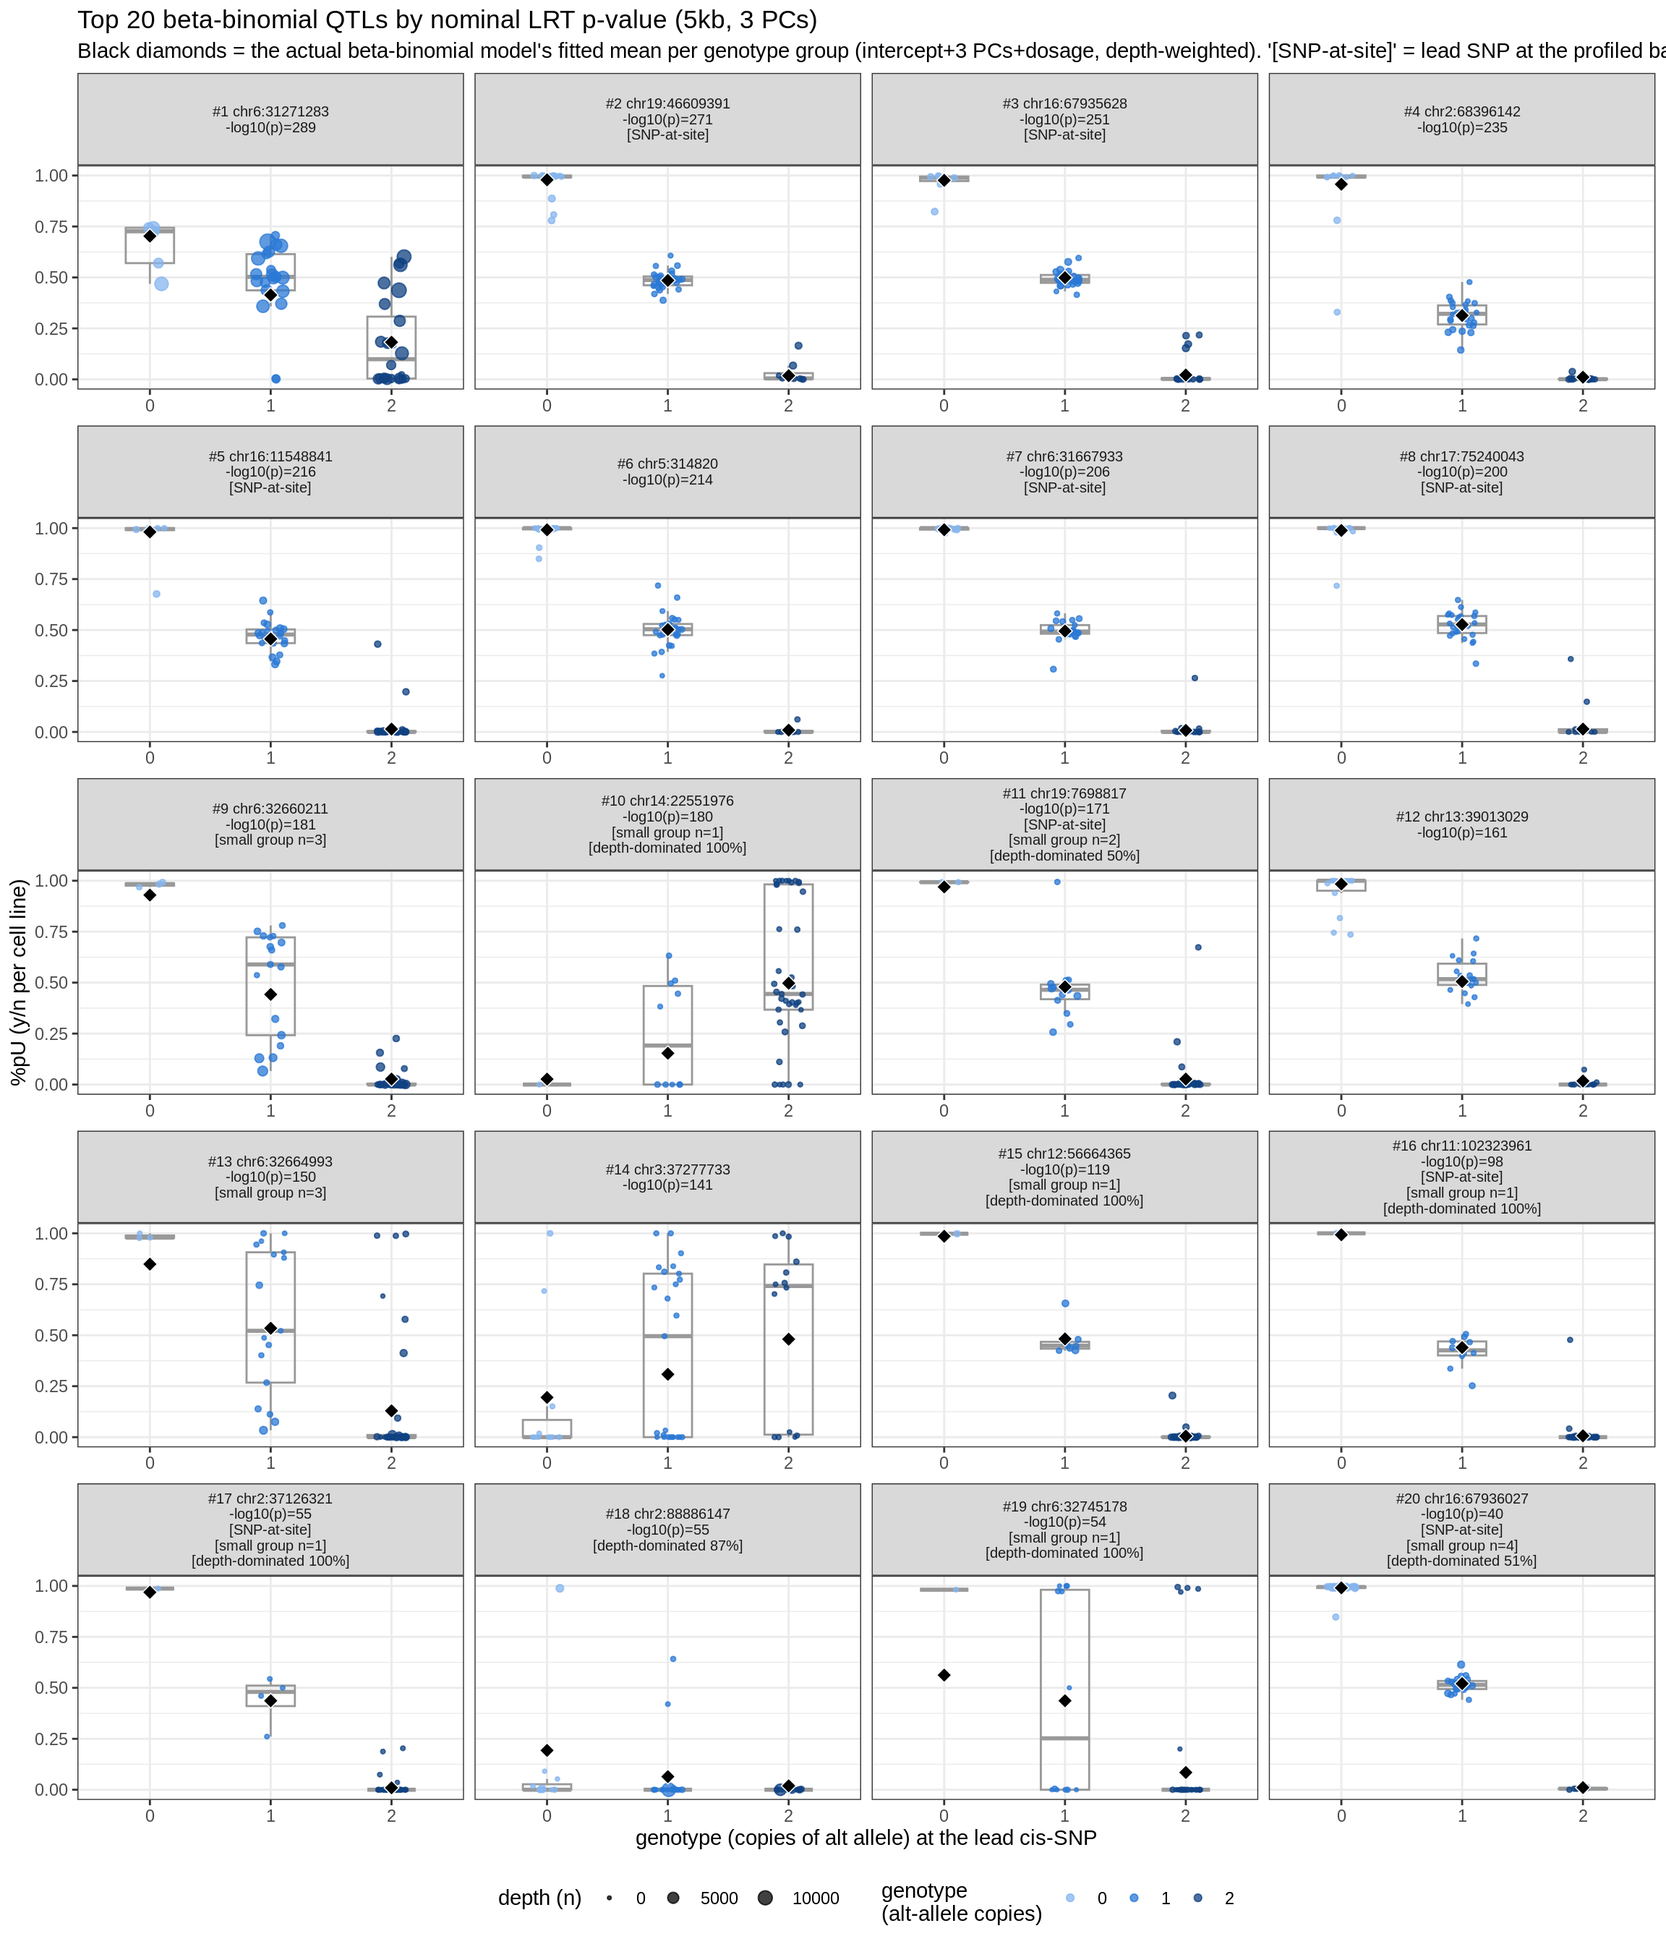
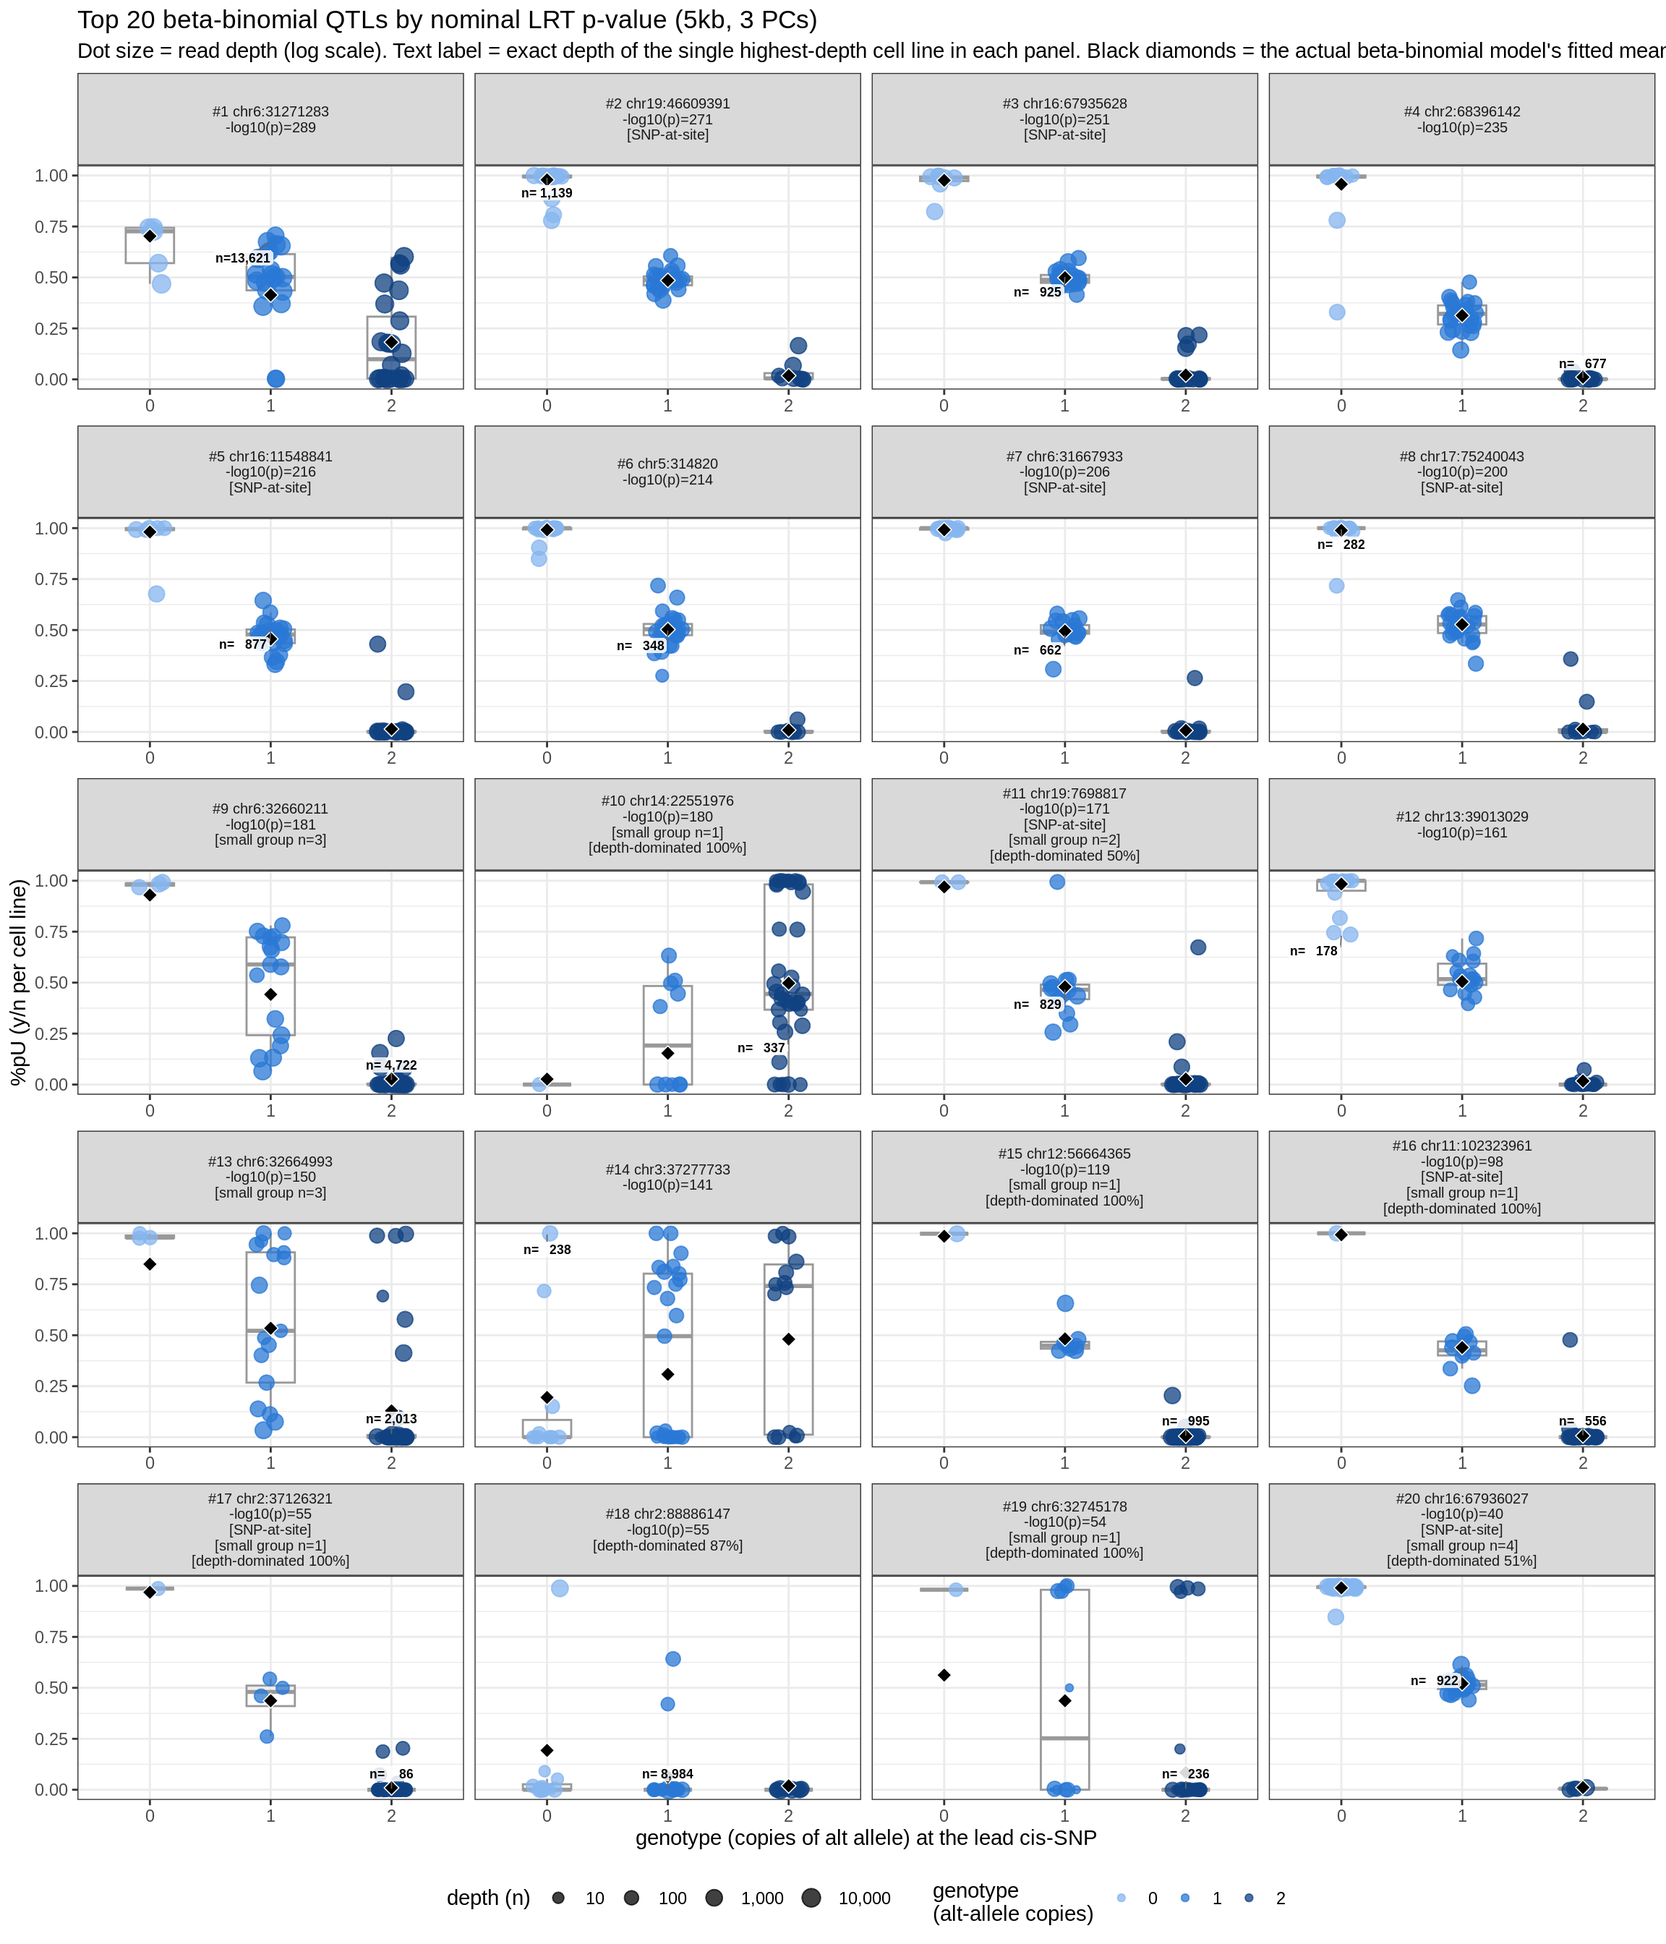
update

diff --git a/docs/qtl_mapping_betabinomial_diagnostic.html b/docs/qtl_mapping_betabinomial_diagnostic.html
@@ -11,7 +11,7 @@
 
 <meta name="author" content="XSun" />
 
-<meta name="date" content="2026-08-02" />
+<meta name="date" content="2026-08-08" />
 
 <title>QTL mapping: beta-binomial top-hit diagnostic</title>
 
@@ -374,7 +374,7 @@ div.tocify {
 <h1 class="title toc-ignore">QTL mapping: beta-binomial top-hit
 diagnostic</h1>
 <h4 class="author">XSun</h4>
-<h4 class="date">2026-08-02</h4>
+<h4 class="date">2026-08-08</h4>
 
 </div>
 
@@ -403,7 +403,7 @@ aria-hidden="true"></span> </a>
 <div class="tab-content">
 <div id="summary" class="tab-pane fade in active">
 <p>
-<strong>Last updated:</strong> 2026-08-02
+<strong>Last updated:</strong> 2026-08-08
 </p>
 <p>
 <strong>Checks:</strong> <span
@@ -537,15 +537,15 @@ project makes it easier to run your code on other machines.</p>
 <div class="panel panel-default">
 <div class="panel-heading">
 <p class="panel-title">
-<a data-toggle="collapse" data-parent="#workflowr-checks" href="#strongRepositoryversionstrongahrefhttpsgithubcomxsun1229pumseqtreec82adb96d5c4e68ce94ec16faf7acc2dab4f2b16targetblankc82adb9a">
+<a data-toggle="collapse" data-parent="#workflowr-checks" href="#strongRepositoryversionstrongahrefhttpsgithubcomxsun1229pumseqtreebb49ca5dbc8d598b2eb8dac704c7f67136c4338ftargetblankbb49ca5a">
 <span class="glyphicon glyphicon-ok text-success"
 aria-hidden="true"></span> <strong>Repository version:</strong>
-<a href="https://github.com/xsun1229/pumseq/tree/c82adb96d5c4e68ce94ec16faf7acc2dab4f2b16" target="_blank">c82adb9</a>
+<a href="https://github.com/xsun1229/pumseq/tree/bb49ca5dbc8d598b2eb8dac704c7f67136c4338f" target="_blank">bb49ca5</a>
 </a>
 </p>
 </div>
 <div
[2 lines of base64/hex data omitted]
 class="panel-collapse collapse">
 <div class="panel-body">
 <p>
@@ -555,7 +555,7 @@ reproducibility.
 </p>
 <p>
 The results in this page were generated with repository version
-<a href="https://github.com/xsun1229/pumseq/tree/c82adb96d5c4e68ce94ec16faf7acc2dab4f2b16" target="_blank">c82adb9</a>.
+<a href="https://github.com/xsun1229/pumseq/tree/bb49ca5dbc8d598b2eb8dac704c7f67136c4338f" target="_blank">bb49ca5</a>.
 See the <em>Past versions</em> tab to see a history of the changes made
 to the R Markdown and HTML files.
 </p>
@@ -620,6 +620,40 @@ Message
 </tr>
 </thead>
 <tbody>
+<tr>
+<td>
+Rmd
+</td>
+<td>
+<a href="https://github.com/xsun1229/pumseq/blob/bb49ca5dbc8d598b2eb8dac704c7f67136c4338f/analysis/qtl_mapping_betabinomial_diagnostic.Rmd" target="_blank">bb49ca5</a>
+</td>
+<td>
+XSun
+</td>
+<td>
+2026-08-02
+</td>
+<td>
+update
+</td>
+</tr>
+<tr>
+<td>
+html
+</td>
+<td>
+<a href="https://rawcdn.githack.com/xsun1229/pumseq/bb49ca5dbc8d598b2eb8dac704c7f67136c4338f/docs/qtl_mapping_betabinomial_diagnostic.html" target="_blank">bb49ca5</a>
+</td>
+<td>
+XSun
+</td>
+<td>
+2026-08-02
+</td>
+<td>
+update
+</td>
+</tr>
 <tr>
 <td>
 Rmd
@@ -933,7 +967,7 @@ update
 </div>
 </div>
 </div>
-<pre class="r"><code>suppressMessages({ library(data.table); library(ggplot2) })
+<pre class="r"><code>suppressMessages({ library(data.table); library(ggplot2); library(ggrepel) })
 
 knitr::opts_chunk$set(
   echo = TRUE, warning = FALSE, message = FALSE,
@@ -1128,18 +1162,35 @@ dw_means &lt;- rows[!is.na(mu_fit), .(dw_mean = sum(mu_fit * n) / sum(n)), by = 
 
 blue3 &lt;- c(`0` = &quot;#86b6ef&quot;, `1` = &quot;#2a78d6&quot;, `2` = &quot;#104281&quot;)
 
+# depth spans ~4 orders of magnitude (1 to 10,000+) -- a LINEAR size scale
+# compresses almost all of that range into barely-distinguishable dot sizes
+# (per advisor feedback: the size legend only showed 0/5000/10000 and wasn&#39;t
+# readable). Map size to log10(depth) instead, with legend breaks labeled in
+# real read counts; additionally, directly label the single highest-depth
+# cell line in each panel with its exact n -- removes any dependence on
+# perceiving size at all for the point that matters most.
+rows[, log_n := log10(pmax(n, 1))]
+top_depth &lt;- rows[, .SD[which.max(n)], by = site_lab]
+size_breaks &lt;- c(10, 100, 1000, 10000)
+
 ggplot(rows, aes(x = g, y = pi, color = g)) +
   geom_boxplot(aes(group = g), outlier.shape = NA, width = 0.4, color = &quot;grey60&quot;, fill = NA) +
-  geom_jitter(aes(size = n), width = 0.12, alpha = 0.75) +
+  geom_jitter(aes(size = log_n), width = 0.12, alpha = 0.75) +
   geom_point(data = dw_means, aes(x = g, y = dw_mean), inherit.aes = FALSE,
              shape = 23, fill = &quot;black&quot;, color = &quot;white&quot;, size = 2.6, stroke = 0.4) +
+  ggrepel::geom_label_repel(data = top_depth, aes(label = paste0(&quot;n=&quot;, format(n, big.mark = &quot;,&quot;))),
+                           inherit.aes = TRUE, size = 2.3, color = &quot;black&quot;, fontface = &quot;bold&quot;,
+                           fill = alpha(&quot;white&quot;, 0.85), label.size = NA, label.padding = 0.1,
+                           segment.size = 0.3, segment.color = &quot;grey40&quot;,
+                           min.segment.length = 0, seed = 1, max.overlaps = Inf) +
   scale_color_manual(values = blue3, name = &quot;genotype\n(alt-allele copies)&quot;) +
-  scale_size_continuous(name = &quot;depth (n)&quot;, range = c(0.6, 3.5)) +
+  scale_size_continuous(name = &quot;depth (n)&quot;, range = c(0.6, 4.2),
+                        breaks = log10(size_breaks), labels = scales::comma(size_breaks)) +
   facet_wrap(~ site_lab, scales = &quot;free_x&quot;, ncol = 4) +
   labs(x = &quot;genotype (copies of alt allele) at the lead cis-SNP&quot;, y = &quot;%pU (y/n per cell line)&quot;,
        title = sprintf(&quot;Top %d beta-binomial QTLs by nominal LRT p-value (%dkb, %d PCs)&quot;,
                        N_TOP, WINDOW_KB, NPCS),
-       subtitle = &quot;Black diamonds = the actual beta-binomial model&#39;s fitted mean per genotype group (intercept+3 PCs+dosage, depth-weighted). &#39;[SNP-at-site]&#39; = lead SNP at the profiled base; &#39;[small group]&#39; = smallest genotype class &lt;5 cell lines; &#39;[depth-dominated]&#39; = one cell line &gt;50% of its group&#39;s total depth.&quot;) +
+       subtitle = &quot;Dot size = read depth (log scale). Text label = exact depth of the single highest-depth cell line in each panel. Black diamonds = the actual beta-binomial model&#39;s fitted mean per genotype group. &#39;[SNP-at-site]&#39; = lead SNP at the profiled base; &#39;[small group]&#39; = smallest genotype class &lt;5 cell lines; &#39;[depth-dominated]&#39; = one cell line &gt;50% of its group&#39;s total depth.&quot;) +
   theme_bw(base_size = 11) +
   theme(legend.position = &quot;bottom&quot;, strip.text = element_text(size = 7.5))</code></pre>
 <p><img src="figure/qtl_mapping_betabinomial_diagnostic.Rmd/top20-select-1.png" width="1152" style="display: block; margin: auto;" /></p>
@@ -1165,6 +1216,17 @@ Date
 </tr>
 </thead>
 <tbody>
+<tr>
+<td>
+<a href="https://github.com/xsun1229/pumseq/blob/bb49ca5dbc8d598b2eb8dac704c7f67136c4338f/docs/figure/qtl_mapping_betabinomial_diagnostic.Rmd/top20-select-1.png" target="_blank">bb49ca5</a>
+</td>
+<td>
+XSun
+</td>
+<td>
+2026-08-02
+</td>
+</tr>
 <tr>
 <td>
 <a href="https://github.com/xsun1229/pumseq/blob/c82adb96d5c4e68ce94ec16faf7acc2dab4f2b16/docs/figure/qtl_mapping_betabinomial_diagnostic.Rmd/top20-select-1.png" target="_blank">c82adb9</a>
@@ -1522,18 +1584,27 @@ rows_p1[, site_lab := factor(site_lab, levels = unique(site_lab[order(rank)]))]
 
 dw_means_p1 &lt;- rows_p1[!is.na(mu_fit), .(dw_mean = sum(mu_fit * n) / sum(n)), by = .(site_lab, g)]
 
+rows_p1[, log_n := log10(pmax(n, 1))]
+top_depth_p1 &lt;- rows_p1[, .SD[which.max(n)], by = site_lab]
+
 ggplot(rows_p1, aes(x = g, y = pi, color = g)) +
   geom_boxplot(aes(group = g), outlier.shape = NA, width = 0.4, color = &quot;grey60&quot;, fill = NA) +
-  geom_jitter(aes(size = n), width = 0.12, alpha = 0.75) +
+  geom_jitter(aes(size = log_n), width = 0.12, alpha = 0.75) +
   geom_point(data = dw_means_p1, aes(x = g, y = dw_mean), inherit.aes = FALSE,
              shape = 23, fill = &quot;black&quot;, color = &quot;white&quot;, size = 2.6, stroke = 0.4) +
+  ggrepel::geom_label_repel(data = top_depth_p1, aes(label = paste0(&quot;n=&quot;, format(n, big.mark = &quot;,&quot;))),
+                           inherit.aes = TRUE, size = 2.3, color = &quot;black&quot;, fontface = &quot;bold&quot;,
+                           fill = alpha(&quot;white&quot;, 0.85), label.size = NA, label.padding = 0.1,
+                           segment.size = 0.3, segment.color = &quot;grey40&quot;,
+                           min.segment.length = 0, seed = 1, max.overlaps = Inf) +
   scale_color_manual(values = blue3, name = &quot;genotype\n(alt-allele copies)&quot;) +
-  scale_size_continuous(name = &quot;depth (n)&quot;, range = c(0.6, 3.5)) +
+  scale_size_continuous(name = &quot;depth (n)&quot;, range = c(0.6, 4.2),
+                        breaks = log10(size_breaks), labels = scales::comma(size_breaks)) +
   facet_wrap(~ site_lab, scales = &quot;free_x&quot;, ncol = 4) +
   labs(x = &quot;genotype (fixed) vs. PERMUTED phenotype at the lead cis-SNP&quot;,
        y = &quot;%pU (y/n per cell line, permuted individual order)&quot;,
        title = sprintf(&quot;Top %d sites under permutation-1 (genotype-phenotype pairing randomized)&quot;, N_TOP),
-       subtitle = &quot;Black diamonds = the actual beta-binomial model&#39;s fitted mean per genotype group (intercept+3 PCs+dosage, depth-weighted; covariates permuted with phenotype, genotype fixed). Same seed as the LRT calibration check&#39;s perm1 (set.seed(1001)).&quot;) +
+       subtitle = &quot;Dot size = read depth (log scale); text = exact depth of the highest-depth cell line per panel. Black diamonds = the actual beta-binomial model&#39;s fitted mean per genotype group. Same seed as the LRT calibration check&#39;s perm1 (set.seed(1001)).&quot;) +
   theme_bw(base_size = 11) +
   theme(legend.position = &quot;bottom&quot;, strip.text = element_text(size = 7.5))</code></pre>
 <p><img src="figure/qtl_mapping_betabinomial_diagnostic.Rmd/perm1-plot-1.png" width="1152" style="display: block; margin: auto;" /></p>
@@ -1559,6 +1630,17 @@ Date
 </tr>
 </thead>
 <tbody>
+<tr>
+<td>
+<a href="https://github.com/xsun1229/pumseq/blob/bb49ca5dbc8d598b2eb8dac704c7f67136c4338f/docs/figure/qtl_mapping_betabinomial_diagnostic.Rmd/perm1-plot-1.png" target="_blank">bb49ca5</a>
+</td>
+<td>
+XSun
+</td>
+<td>
+2026-08-02
+</td>
+</tr>
 <tr>
 <td>
 <a href="https://github.com/xsun1229/pumseq/blob/c82adb96d5c4e68ce94ec16faf7acc2dab4f2b16/docs/figure/qtl_mapping_betabinomial_diagnostic.Rmd/perm1-plot-1.png" target="_blank">c82adb9</a>
@@ -1678,21 +1760,67 @@ rows_p2[, site_lab := factor(site_lab, levels = unique(site_lab[order(rank)]))]
 
 dw_means_p2 &lt;- rows_p2[!is.na(mu_fit), .(dw_mean = sum(mu_fit * n) / sum(n)), by = .(site_lab, g)]
 
+rows_p2[, log_n := log10(pmax(n, 1))]
+top_depth_p2 &lt;- rows_p2[, .SD[which.max(n)], by = site_lab]
+
 ggplot(rows_p2, aes(x = g, y = pi, color = g)) +
   geom_boxplot(aes(group = g), outlier.shape = NA, width = 0.4, color = &quot;grey60&quot;, fill = NA) +
-  geom_jitter(aes(size = n), width = 0.12, alpha = 0.75) +
+  geom_jitter(aes(size = log_n), width = 0.12, alpha = 0.75) +
   geom_point(data = dw_means_p2, aes(x = g, y = dw_mean), inherit.aes = FALSE,
              shape = 23, fill = &quot;black&quot;, color = &quot;white&quot;, size = 2.6, stroke = 0.4) +
+  ggrepel::geom_label_repel(data = top_depth_p2, aes(label = paste0(&quot;n=&quot;, format(n, big.mark = &quot;,&quot;))),
+                           inherit.aes = TRUE, size = 2.3, color = &quot;black&quot;, fontface = &quot;bold&quot;,
+                           fill = alpha(&quot;white&quot;, 0.85), label.size = NA, label.padding = 0.1,
+                           segment.size = 0.3, segment.color = &quot;grey40&quot;,
+                           min.segment.length = 0, seed = 1, max.overlaps = Inf) +
   scale_color_manual(values = blue3, name = &quot;genotype\n(alt-allele copies)&quot;) +
-  scale_size_continuous(name = &quot;depth (n)&quot;, range = c(0.6, 3.5)) +
+  scale_size_continuous(name = &quot;depth (n)&quot;, range = c(0.6, 4.2),
+                        breaks = log10(size_breaks), labels = scales::comma(size_breaks)) +
   facet_wrap(~ site_lab, scales = &quot;free_x&quot;, ncol = 4) +
   labs(x = &quot;genotype (fixed) vs. PERMUTED phenotype at the lead cis-SNP&quot;,
        y = &quot;%pU (y/n per cell line, permuted individual order)&quot;,
        title = sprintf(&quot;Top %d sites under permutation-2 (genotype-phenotype pairing randomized)&quot;, N_TOP),
-       subtitle = &quot;Black diamonds = the actual beta-binomial model&#39;s fitted mean per genotype group. Same seed as the LRT calibration check&#39;s perm2 (set.seed(1002)).&quot;) +
+       subtitle = &quot;Dot size = read depth (log scale); text = exact depth of the highest-depth cell line per panel. Black diamonds = the actual beta-binomial model&#39;s fitted mean per genotype group. Same seed as the LRT calibration check&#39;s perm2 (set.seed(1002)).&quot;) +
   theme_bw(base_size = 11) +
   theme(legend.position = &quot;bottom&quot;, strip.text = element_text(size = 7.5))</code></pre>
 <p><img src="figure/qtl_mapping_betabinomial_diagnostic.Rmd/perm2-plot-1.png" width="1152" style="display: block; margin: auto;" /></p>
+<p>
+<button type="button" class="btn btn-default btn-xs btn-workflowr btn-workflowr-fig" data-toggle="collapse" data-target="#fig-perm2-plot-1">
+Past versions of perm2-plot-1.png
+</button>
+</p>
+<div id="fig-perm2-plot-1" class="collapse">
+<div class="table-responsive">
+<table class="table table-condensed table-hover">
+<thead>
+<tr>
+<th>
+Version
+</th>
+<th>
+Author
+</th>
+<th>
+Date
+</th>
+</tr>
+</thead>
+<tbody>
+<tr>
+<td>
+<a href="https://github.com/xsun1229/pumseq/blob/bb49ca5dbc8d598b2eb8dac704c7f67136c4338f/docs/figure/qtl_mapping_betabinomial_diagnostic.Rmd/perm2-plot-1.png" target="_blank">bb49ca5</a>
+</td>
+<td>
+XSun
+</td>
+<td>
+2026-08-02
+</td>
+</tr>
+</tbody>
+</table>
+</div>
+</div>
 </div>
 <div id="does-excluding-snp-at-site-fix-the-calibration"
 class="section level1">
@@ -1795,6 +1923,17 @@ Date
 <tbody>
 <tr>
 <td>
+<a href="https://github.com/xsun1229/pumseq/blob/bb49ca5dbc8d598b2eb8dac704c7f67136c4338f/docs/figure/qtl_mapping_betabinomial_diagnostic.Rmd/calib-excl-qq-1.png" target="_blank">bb49ca5</a>
+</td>
+<td>
+XSun
+</td>
+<td>
+2026-08-02
+</td>
+</tr>
+<tr>
+<td>
 <a href="https://github.com/xsun1229/pumseq/blob/c82adb96d5c4e68ce94ec16faf7acc2dab4f2b16/docs/figure/qtl_mapping_betabinomial_diagnostic.Rmd/calib-excl-qq-1.png" target="_blank">c82adb9</a>
 </td>
 <td>
@@ -1874,7 +2013,7 @@ attached base packages:
 [1] stats     graphics  grDevices utils     datasets  methods   base     
 
 other attached packages:
-[1] ggplot2_3.4.2     data.table_1.14.4 workflowr_1.7.0  
+[1] ggrepel_0.9.3     ggplot2_3.4.2     data.table_1.14.4 workflowr_1.7.0  
 
 loaded via a namespace (and not attached):
  [1] tidyselect_1.2.0  xfun_0.38         bslib_0.3.1       colorspace_2.0-3 
